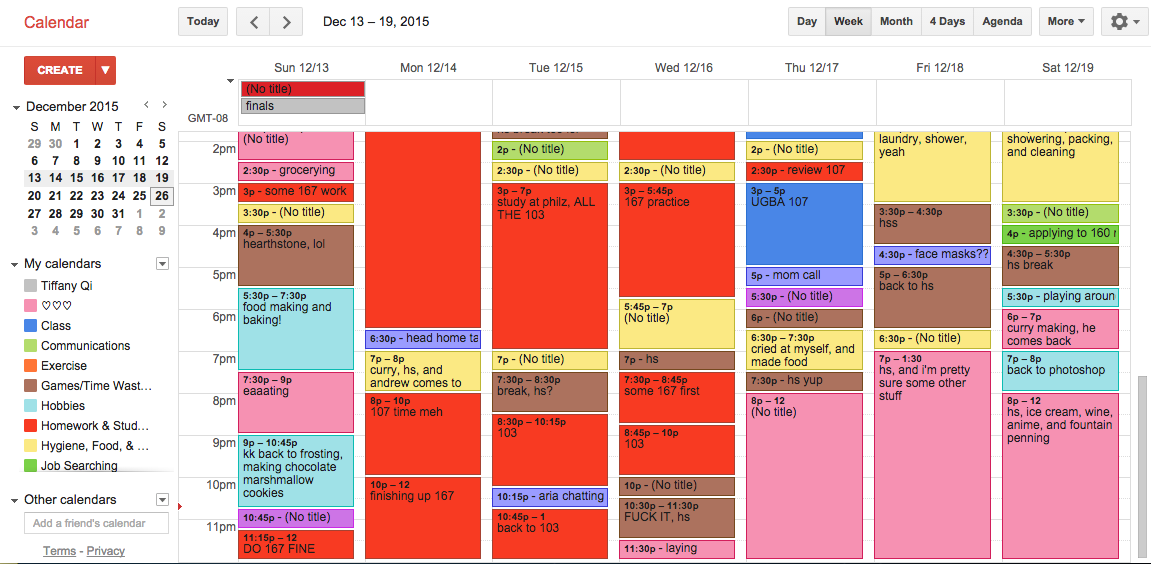
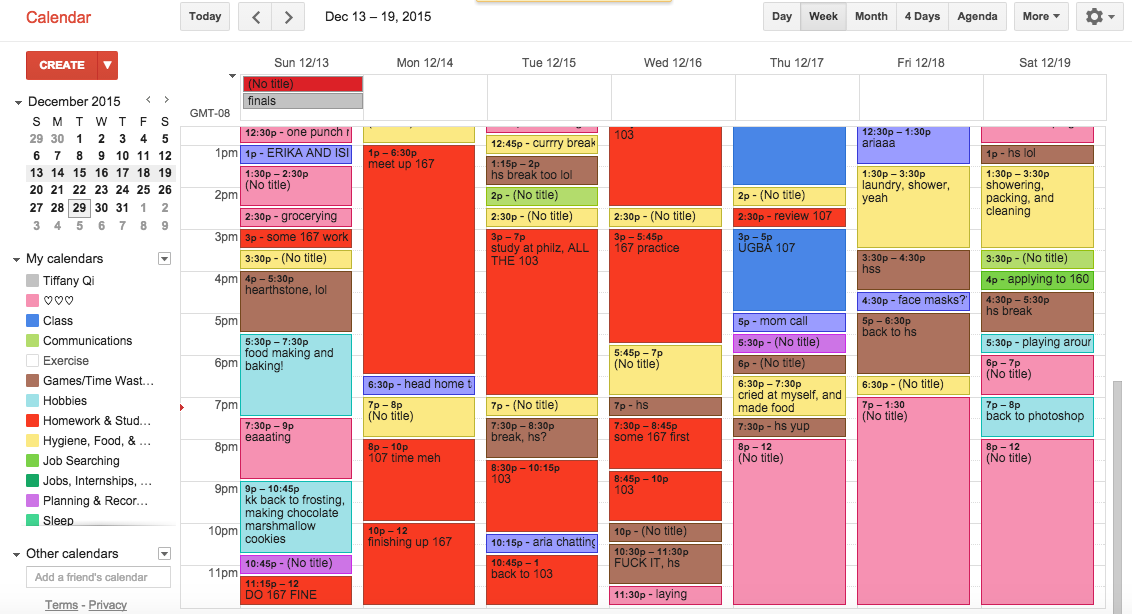
boosting over time content

diff --git a/my-projects/productivity/analysis.html b/my-projects/productivity/analysis.html
@@ -2,7 +2,7 @@
 <html lang="en-US">
   <head>
 
-    <title>Productivity Project | Tiffany Qi</title>
+    <title>Productivity | Tiffany Qi</title>
     <meta charset="UTF-8">
     <link href='https://fonts.googleapis.com/css?family=Raleway:400,700' rel='stylesheet' type='text/css'>
 
@@ -80,10 +80,10 @@
       <a href="#ind" class="topbar-item">Individual</a>
     </nav>
 
-    <h1 id="top">Correlations between Time, Grades, and More</h1>
-    <p>Hi there, and welcome to my Productivity Project. Since I started college at UC Berkeley, I have been tracking my productivity through Google Calendar, then migrating the data onto a spreadsheet through a calculator application I built called <a href="https://github.com/tiffanyqi/calenTools">CalenTools</a> for the command line. With this information, I thought it wold be fun to take all this data, analyze it, and make some conclusions about how time management, grades, units, and class sizes all correlate using Google Charts. Check it out!</p>
+    <h1 id="top">Correlations between Habits and Grades in College</h1>
+    <p>Hi there, and welcome to my Productivity Project. Since I started college at UC Berkeley, I have been tracking my productivity through Google Calendar, then migrating the data onto a spreadsheet through a calculator application I built called <a href="https://github.com/tiffanyqi/calenTools">CalenTools</a> for the command line. With this information, I thought it wold be fun to take all this data, analyze it, and make some conclusions about how time management, sleep, grades, units, and class sizes all correlate using Google Charts. Check it out!</p>
 
-    <p>Note: Each individual analysis isn't super in depth. My knowledge of data analysis comprises manipulation of spreadsheets and most basic statistics knowledge. As such, I am not an expert. For those who are experts and wish to buff these stats with more in-depth analyses, feel free to shoot me an <a href="mailto:hello@tiffanyqi.com">email</a>!</p>
+    <p>Note: Each individual analysis isn't super in depth. My knowledge of data analysis comprises manipulation of spreadsheets and most basic statistics knowledge. As such, I am not an expert. For those who are experts and wish to buff these stats with more in-depth analyses, feel free to shoot me an <a href="mailto:hello@tiffanyqi.com">email</a>! If you're curious how this looks code-wise (disclaimer: there's a lot of repeated code because charts), check out the <a href="https://github.com/tiffanyqi/tiffanyqi.github.io/blob/master/my-projects/productivity/analysis.html">code here</a>.</p>
 
 
     <h2>About Me</h2>
@@ -93,6 +93,8 @@
 
     <p>Something that you may not be able to see here is that I typically took heavy workloads throughout my college career, taking an average of 17.3 units at UC Berkeley per semester (where most students tend to take 15-16, or 4 classes). I took 5 classes a semester, and frequently tacked on Pass/No Pass classes (such as academic interning, computer science, breadth or teaching techniques) on top of that.</p>
 
+    <p>I spend a lot of my time on extra-curricular activities. It has now comprised approximately more than half of all my productive time. I'm somewhat of a workaholic, but I enjoy these activities considerably. Thus, even though I consider "fun" (shown later in the analysis) to be independent from my work, it is often blended together for me. For now, "fun" is defined as time set aside for something non-work related.</p>
+
     <p>I consider myself to be an above-average student. I did pretty well in the beginning of my college career, receiving GPAs well above 3.6, before I started to take my actual major requirements (where everything is curved), and my cumulative GPA has fallen consisently. However, the average GPA for a graduate at Haas is a 3.4, so my current GPA of 3.52 technically puts me above average.</p>
 
     <p>I am interested in these points:</p>
@@ -101,6 +103,7 @@
       <li>whether statistics within departments have any correlation,</li>
       <li>whether grade deflation is really a concept at Berkeley,</li>
       <li>how a student's grades and academic time commitment change over time,</li>
+      <li>how sleep factors into all of this,</li>
       <li>and how a student's grades compare with the average grades of the class and of the department.</li>
     </ul>
 
@@ -108,7 +111,7 @@
 
 
     <h2>My Diary: Getting Time Data</h2>
-    <p>I am a Google Calendar Super User, and I am quite proud of that fact. Since November 2012, I have consistently logged my productive (and non-productive) moments of my life. As such, I am able to go back to any given day and reveal all the moments and feelings of that particular day. This improves my memory and gives me helpful insights along the way. Below are a couple of examples of a given week, one is of October 2014, while the other is more recent at December 2015, which also happened to be the week of final exams.</p>
+    <p>I am a Google Calendar Super User, and I am quite proud of that fact. Since November 2012, I have consistently logged my productive (and non-productive) moments of my life. (So most of Fall 2012 is an estimate of time spent except for the last two weeks.) As such, I am able to go back to any given day and reveal all the moments and feelings of that particular day. This improves my memory and gives me helpful insights along the way. Below are a couple of examples of a given week, one is of October 2014, while the other is more recent at December 2015, which also happened to be the week of final exams.</p>
 
     <img class="calendar" src="../../assets/img/work/oct14.png" alt="October 2014">
     <p>You can see that each category, class, homework, gaming, or hygiene is represented by a different color calendar. Usually I describe what I did during that period of time, and thus I am able to remember exactly what I did in a day.</p>
@@ -118,12 +121,18 @@
       <li>Class</li>
       <li>Homework & Studying</li>
       <li>Jobs, Internships, & Activities</li>
+      <li>Job Searching</li>
+      <li>Sleep</li>
+      <li>Hobbies (a recent addition)</li>
+      <li>Games & Time Wasters</li>
+      <li>Social / Calls</li>
+      <li>Hearts Calendar</li>
     </ul>
-    <p>I split up each calendar and attributed it to each given category, which includes the specific class and activity. As such, I have three years and counting worth of quantifiable data on my productivity.</p>
+    <p>I split up each calendar and attributed it to each given category, which includes the specific class and activity. As such, I calculate productively strictly from the first four calendars. "Fun" is calcuated from hobbies, games & time wasters, social (which in itself is spending time talking or doing something with someone.), and the hearts calendar (self explanatory). I have three years and counting worth of quantifiable data on my productive (and not so productive) moments.</p>
     <img class="calendar" src="../../assets/img/work/dec15.png" alt="December 2015">
 
     <h2>Other Sources of Data</h2>
-    <p>In addition to time, I also calculate grades very closely. This is typically a spreadsheet with every assignment and their weights to either recreate the exact percentage received at the end, or to estimate a percentage. About half of the percentages here are likely estimates. I would prefer to keep how I calculate this data private.</p>
+    <p>In addition to time, I also calculate grades very closely. This is typically a spreadsheet with every assignment and their weights to either recreate the exact percentage received at the end, or to estimate a percentage. About half of the percentages here are likely estimates.</p>
 
     <p>I also have some average grades on the site as well. I went on <a href="http://schedulebuilder.berkeley.edu">Schedule Builder</a>, a UC Berkeley resource, to find the average grade associate with my class and its given semester. If a particular semester wasn't given, I took a look at previous semesters, and if was a constant grade average, I used that one. If it didn't exist, I estimated.</p>
 
@@ -132,7 +141,7 @@
 
     <!-- A NEW PART IS HERE -->
     <h2 id="time">Results Part 1: Productivity Over Time</h2>
-    <p>Let's tackle the fourth point first: <em>how does a student's grades and academic time commitment change over time</em>? Here, we'll be toggling grades, units, and time commitment.</p>
+    <p>Let's tackle the fourth point first: <em>how does a student's grades and academic time commitment, and overall college behaviors change over time</em>? Here, we'll be toggling grades, units, fun, sleep, and time commitment.</p>
 
     <div class="graph-short" id="SemVCumulative"></div>
     <p>Erm, I definitely started sucking later in my college career. Why though? Maybe we can see where I went wrong in later analyses.</p>
@@ -143,11 +152,25 @@
     <div class="graph-tall" id="SemTime"></div>
     <p>The above graph is a visual display of all the time I spent in each semester on HW (homework & studying outside of class), Class time, OH (office hours, or time asking for help), and Activities (extra-curriculars, jobs, internships--basically anything that wasn't class related). In Fall 2014, I was the least motivated academically but still spent more than half of my semester at my part-time job, tutoring, lab assisting, and spinning up a new student organization.</p>
 
-    <p>In terms of motivation, I peaked in Fall 2014 and tried the best I could to be a productive member of student body. I still don't know how I managed to spend 1000+ plus hours in a semester. For context, if each semester is 16 weeks long, each week having 7 days and 24 hours in one day, then the duration of one semester is 24 x 7 x 16 = <strong>2,688 hours</strong> long. According to these numbers, I spent over <strong>40%</strong> of my time productively. If one assumes one sleeps an average of 7 hours a day, the percentage of time I would have spent sleeping in one semester would be a little under 30% (the real number was actually 30.6%), <strong>I spent more time working than I did sleeping</strong>. to put this into perspective, a full time job (assuming 40 hours/week) would be approximately 24% of time spent. Throughout my college career, I was productive approximately 25% to 42% of the time.</p>
+    <p>In terms of motivation, I peaked in Fall 2014 and tried the best I could to be a productive member of student body. I still don't know how I managed to spend 1000+ plus hours in a semester. For context, if each semester is 16 weeks long, each week having 7 days and 24 hours in one day, then the duration of one semester is 24 x 7 x 16 = <strong>2,688 hours</strong> long. According to these numbers, I spent over <strong>40%</strong> of my time productively. If one assumes one sleeps an average of 7 hours a day, the percentage of time I would have spent sleeping in one semester would be a little under 30% (in reality, I slept 30.6% of the semester), <strong>I spent more time working than I did sleeping</strong>. To put this into perspective, a full time job (assuming 40 hours/week) would be approximately 24% of time spent. Throughout my college career, I was productive approximately 25% to 42% of the time. (The first calendar depicted a typical week in Fall 2014, you can see how it looked.)</p>
 
-    <p>So yeah, even though I was little crazy when it came to activities, the time I spent on my academics decreased. The most time I spent at all on my classes was in Spring 2013 (still a freshman in college), before steadily decreasing since. Let's compare this time commitment to academics directly to my grades then.</p>
+    <p>So yeah, even though I was little crazy when it came to activities, the time I spent on my academics decreased. The most time I spent on my classes was in Spring 2013 (still a freshman in college), before steadily decreasing since.</p>
 
-    
+    <p>I also calculated statistics for Fun and Sleep. Shown below:</p>
+
+    <div class="graph-short" id="SemOtherTime"></div>
+    <p>While sleep pretty much stayed the same, with marginal improvements as the semesters went by, I considerably enjoyed myself later throughout my college career.</p>
+
+    <div class="graph-tall" id="CumTimeVGPA"></div>
+    <p>Here is a line graph that correlates my semesterly time spent to my cumulative GPA (to give a backwards time progression effect, since my GPA lowered every semester since I started). There's a LOT going here, as I compared every possible time effect (as shown in the graph above this one) to my GPA. Each syncronous bend and endpoints in the lines show a semester.</p>
+
+    <p>As mentioned earlier, even though time spent on homework and classes decreased over time (the green line), overall total productivity (teal) increased over time with the boost in activities (purple). All this is going on while grades decrease slowly.</p>
+
+    <p>Where does sleep factor into this? Not surprisingly, it is right under total productivity. The only two times it ever overtook the total productivity line was in Fall 2012 and Fall 2015, two opposite sides of the spectrum.</p>
+
+    <p>Next, I think it would be interesting to take all of this data and compare it with each other on a semester basis.</p>
+
+    <div class="graph-tall" id="SemTimeVGPA"></div>
 
 
     <!-- A NEW PART IS HERE -->
@@ -166,6 +189,7 @@
 
     <p>Let's dive into this possibly more deeply with the following individual statistics.</p>
 
+
     <!-- <div class="graph" id="GradeVAverage"></div> -->
     <!-- <div class="graph" id="thetitle"></div> -->
 
@@ -175,12 +199,14 @@
     <script type="text/javascript">
       google.load("visualization", "1", {packages:["corechart"]})
 
+      // SEMESTER DATA
+
       // comparing semester and cumulative gpas
       google.setOnLoadCallback(drawSemVCumulative);
       function drawSemVCumulative() {
         var wrapper = new google.visualization.ChartWrapper({
           chartType: 'Line',
-          dataSourceUrl: 'https://docs.google.com/spreadsheets/d/1sFFCTozc-m_YaMDsj6KWg0dFsLdbznXArn7kooNSSXQ/edit#gid=0',
+          dataSourceUrl: 'https://docs.google.com/spreadsheets/d/1sFFCTozc-m_YaMDsj6KWg0dFsLdbznXArn7kooNSSXQ/edit#gid=868686859',
           query: 'SELECT A,G,F',
           containerId: 'SemVCumulative'
         });
@@ -192,22 +218,19 @@
       function drawUnitsVGPA() {
         var wrapper = new google.visualization.ChartWrapper({
           chartType: 'Line',
-          dataSourceUrl: 'https://docs.google.com/spreadsheets/d/1sFFCTozc-m_YaMDsj6KWg0dFsLdbznXArn7kooNSSXQ/edit#gid=0',
+          dataSourceUrl: 'https://docs.google.com/spreadsheets/d/1sFFCTozc-m_YaMDsj6KWg0dFsLdbznXArn7kooNSSXQ/edit#gid=868686859',
           query: 'SELECT A,G,E',
-          options: {
-            'trendlines': { 0: {} },
-          },
           containerId: 'UnitsVGPA'
         });
         wrapper.draw()
       }
 
-      // 
+      // looking at productive time commitment by semester
       google.setOnLoadCallback(drawSemTime);
       function drawSemTime() {
         var wrapper = new google.visualization.ChartWrapper({
           chartType: 'ColumnChart',
-          dataSourceUrl: 'https://docs.google.com/spreadsheets/d/1sFFCTozc-m_YaMDsj6KWg0dFsLdbznXArn7kooNSSXQ/edit#gid=0',
+          dataSourceUrl: 'https://docs.google.com/spreadsheets/d/1sFFCTozc-m_YaMDsj6KWg0dFsLdbznXArn7kooNSSXQ/edit#gid=868686859',
           query: 'SELECT A,H,I,J,N',
           options: {
             'title': 'Time Spent Productively by Semester',
@@ -222,12 +245,58 @@
         wrapper.draw()
       }
 
+      // looking at fun/sleep by semester
+      google.setOnLoadCallback(drawSemOtherTime);
+      function drawSemOtherTime() {
+        var wrapper = new google.visualization.ChartWrapper({
+          chartType: 'ColumnChart',
+          dataSourceUrl: 'https://docs.google.com/spreadsheets/d/1sFFCTozc-m_YaMDsj6KWg0dFsLdbznXArn7kooNSSXQ/edit#gid=868686859',
+          query: 'SELECT A,Q,R',
+          options: {
+            'title': 'Time Spent Sleeping and Pleasurly by Semester',
+            'legend': {'position': 'top'},
+            'hAxis': {'title': 'Semester'},
+            'vAxis': {'title': 'Time Spent (Hours)'},
+            'bar': {'groupWidth': '50%'},
+            'isStacked': 'true'
+          },
+          containerId: 'SemOtherTime'
+        });
+        wrapper.draw()
+      }
+
+      // comparing cumulative gpa and time
+      google.setOnLoadCallback(drawCumTimeVGPA);
+      function drawCumTimeVGPA() {
+        var wrapper = new google.visualization.ChartWrapper({
+          chartType: 'Line',
+          dataSourceUrl: 'https://docs.google.com/spreadsheets/d/1sFFCTozc-m_YaMDsj6KWg0dFsLdbznXArn7kooNSSXQ/edit#gid=868686859',
+          query: 'SELECT F,H,I,J,M,N,O,Q,R',
+          containerId: 'CumTimeVGPA'
+        });
+        wrapper.draw()
+      }
+
+      // comparing semester gpa and time
+      google.setOnLoadCallback(drawSemTimeVGPA);
+      function drawSemTimeVGPA() {
+        var wrapper = new google.visualization.ChartWrapper({
+          chartType: 'Scatter',
+          dataSourceUrl: 'https://docs.google.com/spreadsheets/d/1sFFCTozc-m_YaMDsj6KWg0dFsLdbznXArn7kooNSSXQ/edit#gid=868686859',
+          query: 'SELECT G,H,I,J,M,N,O,Q,R',
+          containerId: 'SemTimeVGPA'
+        });
+        wrapper.draw()
+      }
+
+      // DEPARTMENT DATA
+
       // time spent by dept, with OH, class time, and hw in a stacked column chart
       google.setOnLoadCallback(drawDeptTime);
       function drawDeptTime() {
         var wrapper = new google.visualization.ChartWrapper({
           chartType: 'ColumnChart',
-          dataSourceUrl: 'https://docs.google.com/spreadsheets/d/1sFFCTozc-m_YaMDsj6KWg0dFsLdbznXArn7kooNSSXQ/edit#gid=991005748',
+          dataSourceUrl: 'https://docs.google.com/spreadsheets/d/1ywocquCiOLCOF3PpEXK7J1Frexu3UMAPkBXYfz9d2eg/edit#gid=0',
           query: 'SELECT A,H,I,J,O',
           options: {
             'title': 'Time Spent on Classes by Department',
@@ -242,12 +311,12 @@
         wrapper.draw()
       }
 
-      //  in a stacked column chart
+      // all sorts of grades in a line graph
       google.setOnLoadCallback(drawDeptGrade);
       function drawDeptGrade() {
         var wrapper = new google.visualization.ChartWrapper({
           chartType: 'Line',
-          dataSourceUrl: 'https://docs.google.com/spreadsheets/d/1sFFCTozc-m_YaMDsj6KWg0dFsLdbznXArn7kooNSSXQ/edit#gid=991005748',
+          dataSourceUrl: 'https://docs.google.com/spreadsheets/d/1ywocquCiOLCOF3PpEXK7J1Frexu3UMAPkBXYfz9d2eg/edit#gid=0',
           query: 'SELECT A,C,D,E',
           containerId: 'DeptGrade'
         });
@@ -258,8 +327,8 @@
       // google.setOnLoadCallback(visfunction);
       // function visfunction() {
       //   var wrapper = new google.visualization.ChartWrapper({
-      //     chartType: 'ScatterChart',
-      //     dataSourceUrl: 'https://docs.google.com/spreadsheets/d/1sFFCTozc-m_YaMDsj6KWg0dFsLdbznXArn7kooNSSXQ/edit#gid=0',
+      //     chartType: '',
+      //     dataSourceUrl: '',
       //     query: 'SELECT ',
       //     options: {
       //       'title': 'thehaxis vs thevaxis',
@@ -271,6 +340,11 @@
       //   });
       //   wrapper.draw()
       // }
+
+      // for scatterChart
+        // options: {
+        //     'trendlines': { '0': {} }          
+        //   }
 
       // http://www.abeautifulsite.net/smoothly-scroll-to-an-element-without-a-jquery-plugin-2/
       $('a[href^="#"]').on('click', function(event) {
